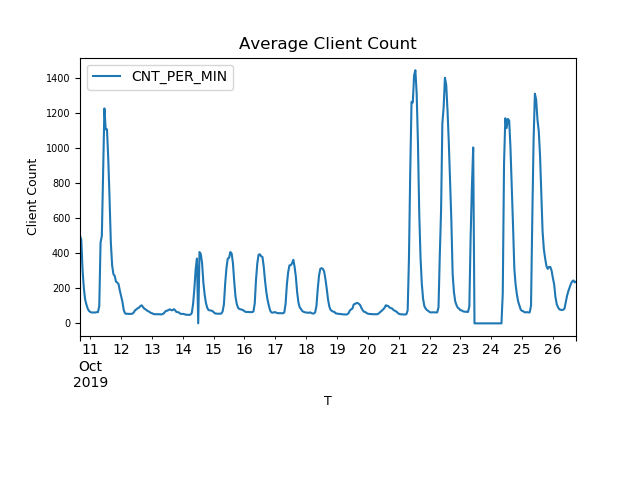
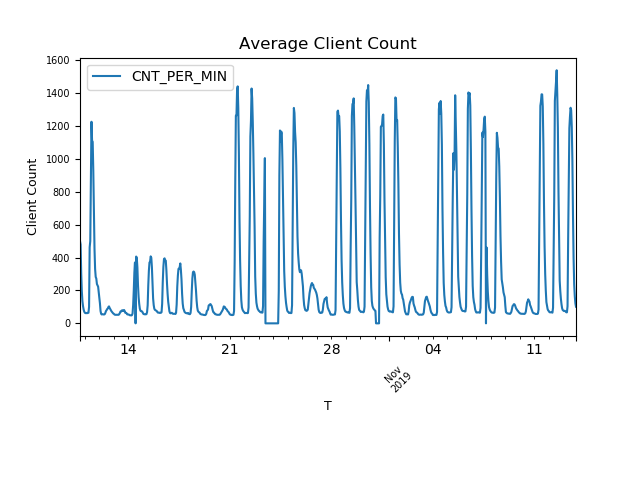
plot 4 update + plotBase class is now caching and reusing data

diff --git a/lib/plot_base.py b/lib/plot_base.py
@@ -1,45 +1,58 @@
+import base64
+import hashlib
 import json
-import logging.config
+# import logging.config
 import os
-import sys
-import pandas as pd
-import matplotlib.pyplot as plt
-from matplotlib.ticker import FormatStrFormatter, StrMethodFormatter
-from numpy.random import randn
+import re
+from datetime import datetime
 
+import matplotlib.pyplot as plt
+import pandas as pd
 import pymysql.cursors
 from pymysql import OperationalError
 
 
-
 class PlotBase:
+    __base_dir__ = None
     _config = None
+    _plot_config = None
     _dataframe = None
     _subplots = []
+    _cache_data = False
+    _max_cache_file_age = 1 * 24 * 60 * 60
 
-    def __init__(self, config):
-        self._config = config
+    def __init__(self, plot_config, cache_data=False):
+        self._plot_config = plot_config
+        self._cache_data = cache_data
+
+        # Load configuration file
+        self.__base_dir__ = os.path.dirname(os.path.dirname(os.path.realpath(__file__)))
+        config_file = self.__base_dir__ + '/configuration.json'
+        with open(config_file) as config_file:
+            self._config = json.load(config_file)
+
+        # Other Options
         pd.set_option('display.max_rows', None)
 
     def plot(self):
-        plotconfig = self._config["plot"]
-
         fig = plt.figure()
         self._subplots.append(fig.add_subplot(1, 1, 1))
 
         # Allow for multiple columns passed as a list
-        if isinstance(plotconfig["y_column"], list):
-            y_columns = plotconfig["y_column"]
+        if isinstance(self._plot_config["y_column"], list):
+            y_columns = self._plot_config["y_column"]
         else:
-            y_columns = [plotconfig["y_column"]]
+            y_columns = [self._plot_config["y_column"]]
         for y_column in y_columns:
-            self._dataframe.plot(kind=plotconfig["kind"], x=plotconfig["x_column"], y=y_column, ax=self._subplots[0])
-
+            self._dataframe.plot(kind=self._plot_config["kind"],
+                                 x=self._plot_config["x_column"],
+                                 y=y_column,
+                                 ax=self._subplots[0])
 
         plt.subplots_adjust(bottom=0.3)
-        self._subplots[0].set_title(plotconfig["plot_title"], fontsize=12)
-        self._subplots[0].set_xlabel(plotconfig["x_title"], fontsize=9)
-        self._subplots[0].set_ylabel(plotconfig["y_title"], fontsize=9)
+        self._subplots[0].set_title(self._plot_config["plot_title"], fontsize=12)
+        self._subplots[0].set_xlabel(self._plot_config["x_title"], fontsize=9)
+        self._subplots[0].set_ylabel(self._plot_config["y_title"], fontsize=9)
         self._subplots[0].tick_params(axis="x", labelrotation=45, labelsize=7)
         self._subplots[0].tick_params(axis="y", labelrotation=0, labelsize=7)
 
@@ -47,14 +60,24 @@ class PlotBase:
         # self._subplots[0].xaxis.set_major_formatter(StrMethodFormatter('{x:,.0f}'))
         # self._subplots[0].yaxis.set_major_formatter(StrMethodFormatter('{x:,.0f}'))
 
-
-
-    def setup_dataframe(self):
-        plotconfig = self._config["plot"]
+    def setup_dataframe(self, reindex=False):
         index_column = None
-        # if "index_column" in plotconfig:
-        #     index_column = plotconfig["index_column"]
-        self._dataframe = self._get_panda_frame(plotconfig["sql"], index_col=index_column)
+        # if "index_column" in self._plot_config:
+        #     index_column = self._plot_config["index_column"]
+
+        df = self._get_panda_frame(self._plot_config["sql"], index_col=index_column)
+
+        # Reindex for missing data
+        if reindex:
+            new_index = pd.date_range(start=df.TS.min(), end=df.TS.max(), freq="1H")
+            df['TS'] = pd.to_datetime(df['TS'])
+            df.set_index("TS", inplace=True, drop=True)
+            #
+            df2 = df.reindex(new_index, fill_value=0)
+            df2 = df2.fillna(0.0).rename_axis('TS').reset_index()
+            df = df2
+
+        self._dataframe = df
 
     def get_dataframe(self):
         return self._dataframe
@@ -67,8 +90,7 @@ class PlotBase:
         plt.show()
 
     def save(self):
-        plotconfig = self._config["plot"]
-        filename = 'Plots/plot_{0}.png'.format(plotconfig["number"])
+        filename = self._get_plot_file_path()
         # if os.path.isfile(filename):
         #     os.remove(filename)
         plt.savefig(filename)
@@ -89,10 +111,64 @@ class PlotBase:
             print("Mysql error: {0}".format(e))
             raise e
 
+    def get_config(self):
+        return self._config
 
     def _get_panda_frame(self, sql, index_col=None):
-        conn = self.get_db_connection()
-        f = pd.read_sql(sql, conn, index_col=index_col)
-        conn.close()
+        f = self._get_cached_panda_frame()
+
+        if f is None:
+            conn = self.get_db_connection()
+            f = pd.read_sql(sql, conn, index_col=index_col)
+
+            self._set_cached_panda_frame(f)
+            conn.close()
+
         return f
+
+    def _set_cached_panda_frame(self, f):
+        cache_file_path = self._get_cache_file_path()
+        f.to_pickle(cache_file_path)
+
+    def _get_cached_panda_frame(self):
+        answer = None
+
+        if self._cache_data:
+            cache_file_path = self._get_cache_file_path()
+            # print("Cache file path: {0}".format(cache_file_path))
+            if os.path.isfile(cache_file_path):
+                now = datetime.now()
+                creation_time = datetime.fromtimestamp(os.path.getmtime(cache_file_path))
+                delta = now - creation_time
+                if delta.total_seconds() > self._max_cache_file_age:
+                    os.remove(cache_file_path)
+                    print("Old cache file deleted.")
+                else:
+                    answer = pd.read_pickle(cache_file_path)
+                    print("Reusing cache data")
+
+        return answer
+
+    def _get_plot_file_path(self):
+        clean_name = self._get_clean_file_name_from_title()
+        plot_extension = "png"
+        plot_file_name = "{0}.{1}".format(clean_name, plot_extension)
+        plot_file_path = "{0}/Plots/{1}".format(self.__base_dir__, plot_file_name)
+        return plot_file_path
+
+    def _get_clean_file_name_from_title(self):
+        s = str(self._plot_config["plot_title"]).strip().lower().replace(' ', '_')
+        return re.sub(r'(?u)[^-\w.]', '', s)
+
+    def _get_cache_file_path(self):
+        s = str(self._plot_config["sql"]).strip().lower().replace(' ', '_')
+        m = hashlib.md5()
+        m.update(s.encode('UTF-8'))
+        cache_name_base = m.hexdigest()
+        cache_extension = "cache"
+        cache_file_name = "{0}.{1}".format(cache_name_base, cache_extension)
+        cache_file_path = "{0}/cache/{1}".format(self.__base_dir__, cache_file_name)
+        return cache_file_path
+
+
 

diff --git a/plot4.py b/plot4.py
@@ -6,61 +6,26 @@
 #
 #
 
-import json
-import os
-from datetime import datetime
-
-import pandas as pd
-
 from lib.plot_base import PlotBase
 
-__script_dir__ = os.path.dirname(os.path.realpath(__file__))
-config_file = __script_dir__ + '/configuration.json'
-
-# Load configuration file
-with open(config_file) as config_file:
-    config = json.load(config_file)
-
-now = datetime.now()
-
 plotconfig = {
-    "number": 4,
+    "plot_title": "Hourly Average Client Count (Full Period)",
     "kind": "line",
     "sql": 'SELECT '
-           'DATE_FORMAT(MIN(ts), "%Y-%m-%d %H:00:00") AS TS, '
-           'ROUND(COUNT(*) / COUNT(DISTINCT mqtt_batch)) AS CNT_PER_MIN '
-           'FROM wifi_clients '
-           'WHERE ts >= "2019-10-10 00:00:00" '
-           'GROUP BY YEAR(ts), MONTH(ts), DAY(ts), HOUR(ts)',
+           'v.ts AS TS, '
+           'v.per_minute_count AS CNT_PER_MIN '
+           'FROM v__wcb__h__record_counts AS v '
+           # 'WHERE ts >= \'2019-10-22 00:00:00\' AND ts < \'2019-10-26 00:00:00\' '
+           '',
     "x_column": "TS",
     "y_column": "CNT_PER_MIN",
     "index_column": "TS",
     "x_title": "T",
-    "y_title": "Client Count",
-    "plot_title": "Average Client Count",
+    "y_title": "Client Count"
 }
 
-config["plot"] = plotconfig
-pb = PlotBase(config)
-pb.setup_dataframe()
-df = pb.get_dataframe()
-
-# print(df)
-# print("-"*80)
-
-newIndex = pd.date_range(start=df.TS.min(), end=df.TS.max(), freq="1H")
-df['TS'] = pd.to_datetime(df['TS'])
-df.set_index("TS", inplace=True, drop=True)
-# print(df)
-# print("-"*80)
-
-df2 = df.reindex(newIndex, fill_value=0)
-df2 = df2.fillna(0.0).rename_axis('TS').reset_index()
-
-# print(df2)
-# print("-"*80)
-
-pb.set_dataframe(df2)
+pb = PlotBase(plotconfig, cache_data=True)
+pb.setup_dataframe(reindex=True)
 pb.plot()
 pb.save()
 pb.show()

diff --git a/README.md b/README.md
@@ -14,17 +14,14 @@ Timestamp(ts)
 Description: The timestamp created by the database server when the payload was received. Consecutive timestamps are
 received 1 minute apart. The current configuration stores at the same frequency.
 
-![Plot 4](Plots/plot_4.png?raw=true "Plot 4")
+![Plot 4](Plots/hourly_average_client_count_full_period.png?raw=true "Plot 4")
 
 SQL:
 ```mysql
-SELECT
-       DATE_FORMAT(MIN(ts), "%Y-%m-%d %H:00:00") AS TS,
-       ROUND(COUNT(*) / COUNT(DISTINCT mqtt_batch)) AS CNT_PER_MIN
-FROM wifi_clients
-WHERE ts >= "2019-10-10 00:00:00"
-GROUP BY YEAR(ts), MONTH(ts), DAY(ts), HOUR(ts)
-;
+SELECT 
+    v.ts AS TS,
+    v.per_minute_count AS CNT_PER_MIN
+FROM v__wcb__h__record_counts AS v;
 ```
 
 Utility:
